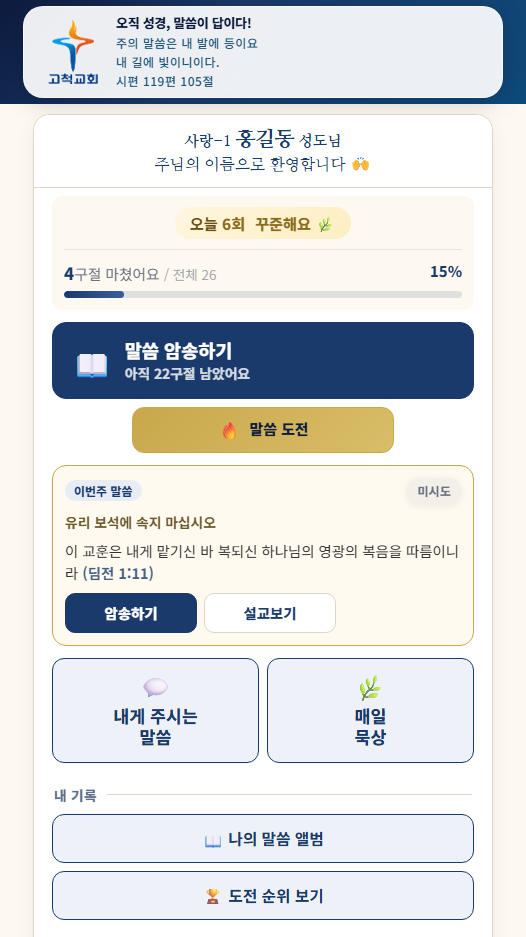
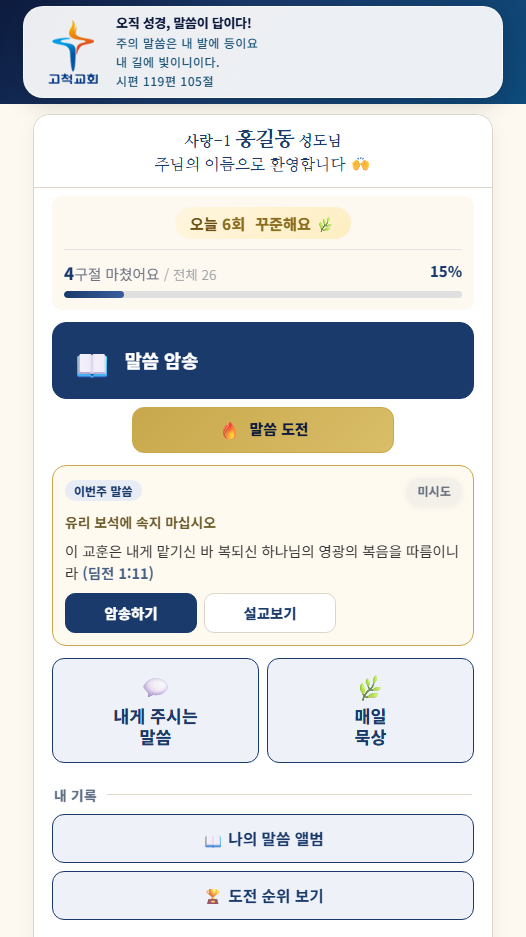
feat(첫 화면): 「아직 N구절 남았어요」 빼기 · 단추 이름 「말씀 암송」으로(「말씀 도전」과 짝) — v3.579
- 큰 단추 아래 줄 「아직 N구절 남았어요」를 뺐다(친구 — 새로 오신 분이 부담을 느끼신다 · 구절이 매주 늘어 내년엔 90을 넘는다).
  다 마치신 분의 「N구절 모두 마치셨어요 🎉」는 그대로.
- 줄이 빠져도 단추 높이는 두 줄 그대로(.todo-go .todo-body min-height) — 「말씀 도전」이 위로 올라가지 않게(10/11 「늘 같은 자리」).
- 단추 이름 「말씀 암송하기」 → 「말씀 암송」. 이 이름을 부르는 설명서 장 제목·첫 걸음 글(원래 「📖 암송하기」로 어긋나 있었다)·
  guide ② 첫 화면 글과 사진(home·install·manual)도 함께.
- 디자인 시안 문서: 「마음에 둠」은 완료 창·화면에만 두면 안 되는 까닭(반복해서 쓰기·자동 계속 도전).
- bump 20261012g

Changed region(s): [[0.2129, 0.3404, 0.4867, 0.4023], [0.4563, 0.9285, 0.4867, 0.9594], [0.4563, 0.8666, 0.4867, 0.8975]]

diff --git a/app.js b/app.js
@@ -6,7 +6,7 @@
 
 // 이 파일의 빌드 번호 — index.html의 app.js?v= 와 반드시 같아야 한다.
 // (tools/bump.py가 둘을 함께 올린다)
-const APP_BUILD = "20261012f";
+const APP_BUILD = "20261012g";
 
 // 배포 직후 CDN이 아직 옛 app.js를 내보내면, 브라우저는 그 옛 내용을 '새 주소'
 // 아래 캐시해 버린다. 주소가 다시 바뀌기 전까지(최대 10분) 옛 화면이 남는 이유다.
@@ -3150,8 +3150,14 @@ function renderSummary() {
   //    복습 예약(ensureReviewScheduled)은 그대로 쌓인다 — 되살리려면 이 자리에 go-review 를 다시 더하면 된다
   //    (복습 화면 renderReview·startReview 는 남겨 두었다 · docs/notes/home-screen.md).
   const notDone = counts[0] + counts[1] + counts[2];   // 아직 3단계를 못 마친 구절
-  const TODO = { id: "go-list", cls: "", ic: "📖", tx: "말씀 암송하기",
-    sub: notDone > 0 ? `아직 ${notDone}구절 남았어요` : `${done}구절 모두 마치셨어요 🎉` };
+  // ⚠ 2026-10-12 친구 결정 — 「아직 N구절 남았어요」를 뺐다. 새로 오신 분은 첫 화면에서
+  //    「아직 41구절 남았어요」부터 보셨고, 구절이 매주 하나씩 늘어 내년엔 90을 넘는다 —
+  //    시작도 전에 짐이 된다는 말씀이 이미 있었다. 남은 수를 세는 대신 아무 말도 하지 않는다.
+  //    다 마치신 분께 드리는 축하 줄은 그대로 둔다(짐이 아니라 기쁨이다).
+  // 2026-10-12 친구 — 단추 이름도 「말씀 암송하기」 → 「말씀 암송」(아래 「말씀 도전」과 짝을 맞춘다).
+  //    이 이름을 부르는 곳(설명서 MANUAL 「말씀 암송」 장 · guide/index.html ② 첫 화면)도 함께 바꿨다.
+  const TODO = { id: "go-list", cls: "", ic: "📖", tx: "말씀 암송",
+    sub: notDone > 0 ? "" : `${done}구절 모두 마치셨어요 🎉` };
   const SUB = [{ id: "go-challenge", cls: "challenge-cta", ic: "🔥", tx: "말씀 도전" }];
 
   const pct = total ? Math.round((done / total) * 100) : 0;
@@ -3219,7 +3225,7 @@ function renderSummary() {
     <div id="store-nudge" hidden></div>
     <button class="todo-go ${TODO.cls}" id="${TODO.id}">
       <span class="todo-ic">${TODO.ic}</span>
-      <span class="todo-body"><span class="todo-tx">${TODO.tx}</span><span class="todo-sub">${TODO.sub}</span></span>
+      <span class="todo-body"><span class="todo-tx">${TODO.tx}</span>${TODO.sub ? `<span class="todo-sub">${TODO.sub}</span>` : ""}</span>
     </button>
     <div class="summary-actions sub-actions${SUB.length === 1 ? " one" : ""}">
       ${SUB.map((s) => `<button class="summary-go act-btn ${s.cls}" id="${s.id}"><span class="act-ic">${s.ic}</span><span class="act-tx">${s.tx}</span></button>`).join("")}
@@ -8464,11 +8470,11 @@ const MANUAL = [
     tip: "비밀번호는 없어요. 이름만 맞으면 됩니다.",
   },
   {
-    icon: "✍", title: "말씀 암송하기",
+    icon: "✍", title: "말씀 암송",
     lead: "빈칸을 채우며 세 번에 나누어 외워요.",
     art: '<div class="mn-verse">주의 말씀은 내 <span class="mn-blank">◻◻</span>에 <span class="mn-blank">◻</span>이요</div>',
     steps: [
-      "첫 화면 <b>📖 암송하기</b>를 누르고 외울 구절을 고르세요.",
+      "첫 화면 <b>📖 말씀 암송</b>을 누르고 외울 구절을 고르세요.",
       "<b>1단계</b> — 빈칸이 조금 (넷 중 하나쯤)",
       "<b>2단계</b> — 빈칸이 많이 (셋 중 둘쯤)",
       "<b>3단계</b> — 전부 빈칸",

diff --git a/index.html b/index.html
@@ -65,7 +65,7 @@
   <link rel="preconnect" href="https://fonts.gstatic.com" crossorigin />
   <link href="https://fonts.googleapis.com/css2?family=Gowun+Batang:wght@400;700&family=Lora:wght@400;600;700&family=Nanum+Myeongjo:wght@400;700;800&family=Noto+Sans+KR:wght@400;500;700;800&display=swap" rel="stylesheet" media="print" onload="this.media='all'" />
   <noscript><link href="https://fonts.googleapis.com/css2?family=Gowun+Batang:wght@400;700&family=Lora:wght@400;600;700&family=Nanum+Myeongjo:wght@400;700;800&family=Noto+Sans+KR:wght@400;500;700;800&display=swap" rel="stylesheet" /></noscript>
-  <link rel="stylesheet" href="style.css?v=20261012f" />
+  <link rel="stylesheet" href="style.css?v=20261012g" />
 </head>
 <body>
   <!-- 앱 시작 스플래시 화면 -->
@@ -74,7 +74,7 @@
       <img id="splash-logo" src="img/logo-gocheok.png" alt="고척교회" />
       <div class="splash-title">오직 성경, 말씀이 답이다!</div>
       <div class="splash-sub">주의 말씀은 내 발에 등이요<br>내 길에 빛이니이다</div>
-      <div class="splash-ver">v3.578</div>
+      <div class="splash-ver">v3.579</div>
       <img class="splash-denom" src="logo3.png?v=20260702y" alt="대한예수교장로회총회" onerror="this.style.display='none'" />
     </div>
   </div>
@@ -107,11 +107,11 @@
     <p style="text-align:center;padding:40px">불러오는 중...</p>
   </main>
 
-  <script src="js/config.js?v=20261012f"></script>
-  <script src="js/api.js?v=20261012f"></script>
-  <script src="js/push.js?v=20261012f"></script>
-  <script src="js/psalm.js?v=20261012f"></script>
-  <script src="js/events.js?v=20261012f"></script>
-  <script src="app.js?v=20261012f"></script>
+  <script src="js/config.js?v=20261012g"></script>
+  <script src="js/api.js?v=20261012g"></script>
+  <script src="js/push.js?v=20261012g"></script>
+  <script src="js/psalm.js?v=20261012g"></script>
+  <script src="js/events.js?v=20261012g"></script>
+  <script src="app.js?v=20261012g"></script>
 </body>
 </html>

diff --git a/style.css b/style.css
@@ -1606,6 +1606,10 @@ body.native-app-hide-ref .word-input { scroll-margin-top: 90px; }
 .todo-go:active { transform: translateY(0); box-shadow: 0 2px 8px rgba(13,27,62,.22); }
 .todo-go .todo-ic { font-size: 1.9rem; line-height: 1; flex: none; }
 .todo-go .todo-body { display: flex; flex-direction: column; gap: 3px; min-width: 0; }
+/* ⚠ 아래 줄(.todo-sub)이 없어도 단추 높이는 두 줄일 때와 같게 — 2026-10-12 「아직 N구절 남았어요」를 빼면서.
+   줄이 빠져 단추가 12px 줄면 그 아래 「말씀 도전」이 위로 올라간다. 단추가 늘 같은 자리여야 한다는 것이
+   2026-10-11 결정이다(어르신 「자리가 바뀌어 헷갈린다」). 두 줄 높이 = 위 줄 + 틈 + 아래 줄(아래 두 규칙과 같은 값). */
+.todo-go .todo-body { min-height: calc(1.16rem * 1.2 + 3px + .86rem * 1.25); justify-content: center; }
 .todo-go .todo-tx { font-size: 1.16rem; font-weight: 800; line-height: 1.2; }
 .todo-go .todo-sub { font-size: .86rem; font-weight: 600; opacity: .82; line-height: 1.25; }
 /* 도전이 오늘 할 일이면 금색 — 색은 「무엇인가」를 말한다(도전·성취=금색) */

diff --git a/admin.html b/admin.html
@@ -72,7 +72,7 @@
   // 관리 도구 목록 — 앞으로 여기에 한 줄씩 추가하면 됩니다
   const TOOLS = [
     // 성도 정보 관리는 교회 어드민(admin.onlybible.kr 「👤 성도 계정」)으로 옮겼다(2026-10-09) — 여기서 걷었다.
-    { ic:"📖", title:"성경암송 관리", desc:"통계 · 알림발송 · 주간리포트 · 게시판", href:"admin-stats.html?v=20261012f" },
+    { ic:"📖", title:"성경암송 관리", desc:"통계 · 알림발송 · 주간리포트 · 게시판", href:"admin-stats.html?v=20261012g" },
     { ic:"🎉", title:"이벤트 관리", desc:"회차 만들기 · 신청 명단 · 인쇄", href:"admin-event.html" },
     { ic:"🎵", title:"찬양 아카이브 관리", desc:"곡 등록 · 콤보순서 · 조회수 · 사용현황", href:"admin-praise.html" },
     { ic:"⛪", title:"설교·찬양 관리", desc:"설교 올리기(두 단계) · 설교 목록 · 매일 묵상 · 담당자 — 담당자도 이 주소로", href:"admin-sermon.html" },

diff --git a/guide/index.html b/guide/index.html
@@ -179,7 +179,7 @@ var STEPS = [
 
   { img:"shots/home.png", t:"② 첫 화면", tap:{x:50,y:37},
     s:"여기서 모든 것이 시작돼요.",
-    say:"내 이름과 <b>오늘 몇 번</b> 했는지가 위에 보여요. 그 아래 <b>맨 큰 남색 단추</b>가 「말씀 암송하기」, 바로 밑 금색 단추가 「말씀 도전」입니다.",
+    say:"내 이름과 <b>오늘 몇 번</b> 했는지가 위에 보여요. 그 아래 <b>맨 큰 남색 단추</b>가 「말씀 암송」, 바로 밑 금색 단추가 「말씀 도전」입니다.",
     tip:"두 단추는 늘 같은 자리에 있어요." },
 
   { img:"shots/list.png", t:"③ 말씀 목록", tap:{x:50,y:22},

diff --git a/docs/notes/home-screen.md b/docs/notes/home-screen.md
@@ -42,6 +42,10 @@
   같이 고친 문구(거짓이 되지 않게): 첫 완주 축하의 「복습이 예약됐어요」 줄 삭제 · 설명서 「말씀 도전 · 복습」→「말씀 도전」(복습 두 줄 삭제) · 카드·응원 설명의 「암송·도전·복습」→「암송·도전」 · 도움말 「🔥 말씀 도전 · 🔁 복습」 · `guide/index.html` 첫 화면 설명(「그때그때 바뀌어요」→「늘 같은 자리」).
   일부러 안 고친 것: 순위 설명의 「암송 · 도전 · 복습을 모두 합한 횟수」(지난 복습도 실제로 들어 있다 — 참이다) · 개인정보 안내의 「복습 기록」(모은 것을 빼면 안 된다) · 이번주 말씀 카드의 「복습하기」(그 구절을 다시 암송하는 단추 — 간격 복습과 다르다).
   ⚠ **저녁 알림(아직 꺼짐 `EVENING_LIVE=false`)의 문구가 「🔁 복습이 기다려요」다**(`api` 저녁 문구 순수 함수 · 밀린 복습이 있는 분) — 켜기 전에 문구를 바꿀 것. 지금 그대로 켜면 없는 단추로 부르게 된다.
+- **2026-10-12 큰 단추 아래 「아직 N구절 남았어요」를 뺐다(친구 결정 — 새로 오신 분이 부담을 느끼신다).** 처음 오신 분은 첫 화면에서 「아직 41구절 남았어요」부터 보셨고, 구절이 매주 하나씩 늘어 내년엔 90을 넘는다. 다 마치신 분의 「N구절 모두 마치셨어요 🎉」는 그대로다.
+  ⚠ **줄이 빠져도 단추 높이는 두 줄 그대로**(`.todo-go .todo-body` 의 `min-height` — 위 줄 + 틈 + 아래 줄 계산식). 안 그러면 단추가 12px 줄어 「🔥 말씀 도전」이 위로 올라간다 — 10/11 「늘 같은 자리」 결정과 어긋난다. `.todo-tx`·`.todo-sub` 의 글씨 크기·줄 높이를 바꾸면 그 계산식도 함께.
+  같은 날 **단추 이름도 「말씀 암송하기」 → 「말씀 암송」**(친구 — 아래 「말씀 도전」과 짝을 맞춘다). 이 이름을 부르는 곳 — 설명서(MANUAL) 「말씀 암송」 장 제목과 그 첫 걸음 글(원래 「📖 암송하기」로 어긋나 있었다) · `guide/index.html` ② 첫 화면 글 · `guide/shots/home.png`·`install.png`·`manual.png` — 도 함께 바꿨다. 이번주 말씀 카드의 「암송하기」 단추와 앱 이름 「성경말씀 암송하기」(소개 화면)는 다른 것이라 그대로다.
+  남은 것(친구 결정 대기): 바로 위 진행 막대의 「전체 N구절 · 이제 시작이에요 0%」도 처음 오신 분께 전체 수를 보여 준다. 기간으로 끊어 보이는 안(「이번 달 4구절 중 1구절」 등)은 `docs/notes/design-refresh.md`.
 - **2026-10-12 첫 실행을 가볍게 — 🎓 교육·🙋 봉사 당번 화면 코드는 필요할 때 받는다**(`index.html` 에서 `js/edu.js`·`js/duty.js` 를 뺐다 · 140KB/gzip 44KB · 단추가 보이면 한가할 때 미리 · 알림 주소는 첫 그리기 앞에서 기다린다). 단추를 숨기는 문 판단은 `app.js` 에 그대로다.
   ⚠ 「교회 생활」 묶음에 단추를 더하거나 두 파일의 전역을 `app.js` 에서 새로 부르기 전에 `docs/notes/lazy-load.md` — 첫 화면이 동기로 부르는 것을 지연 파일에 두면 그 자리가 조용히 빈다.
 
